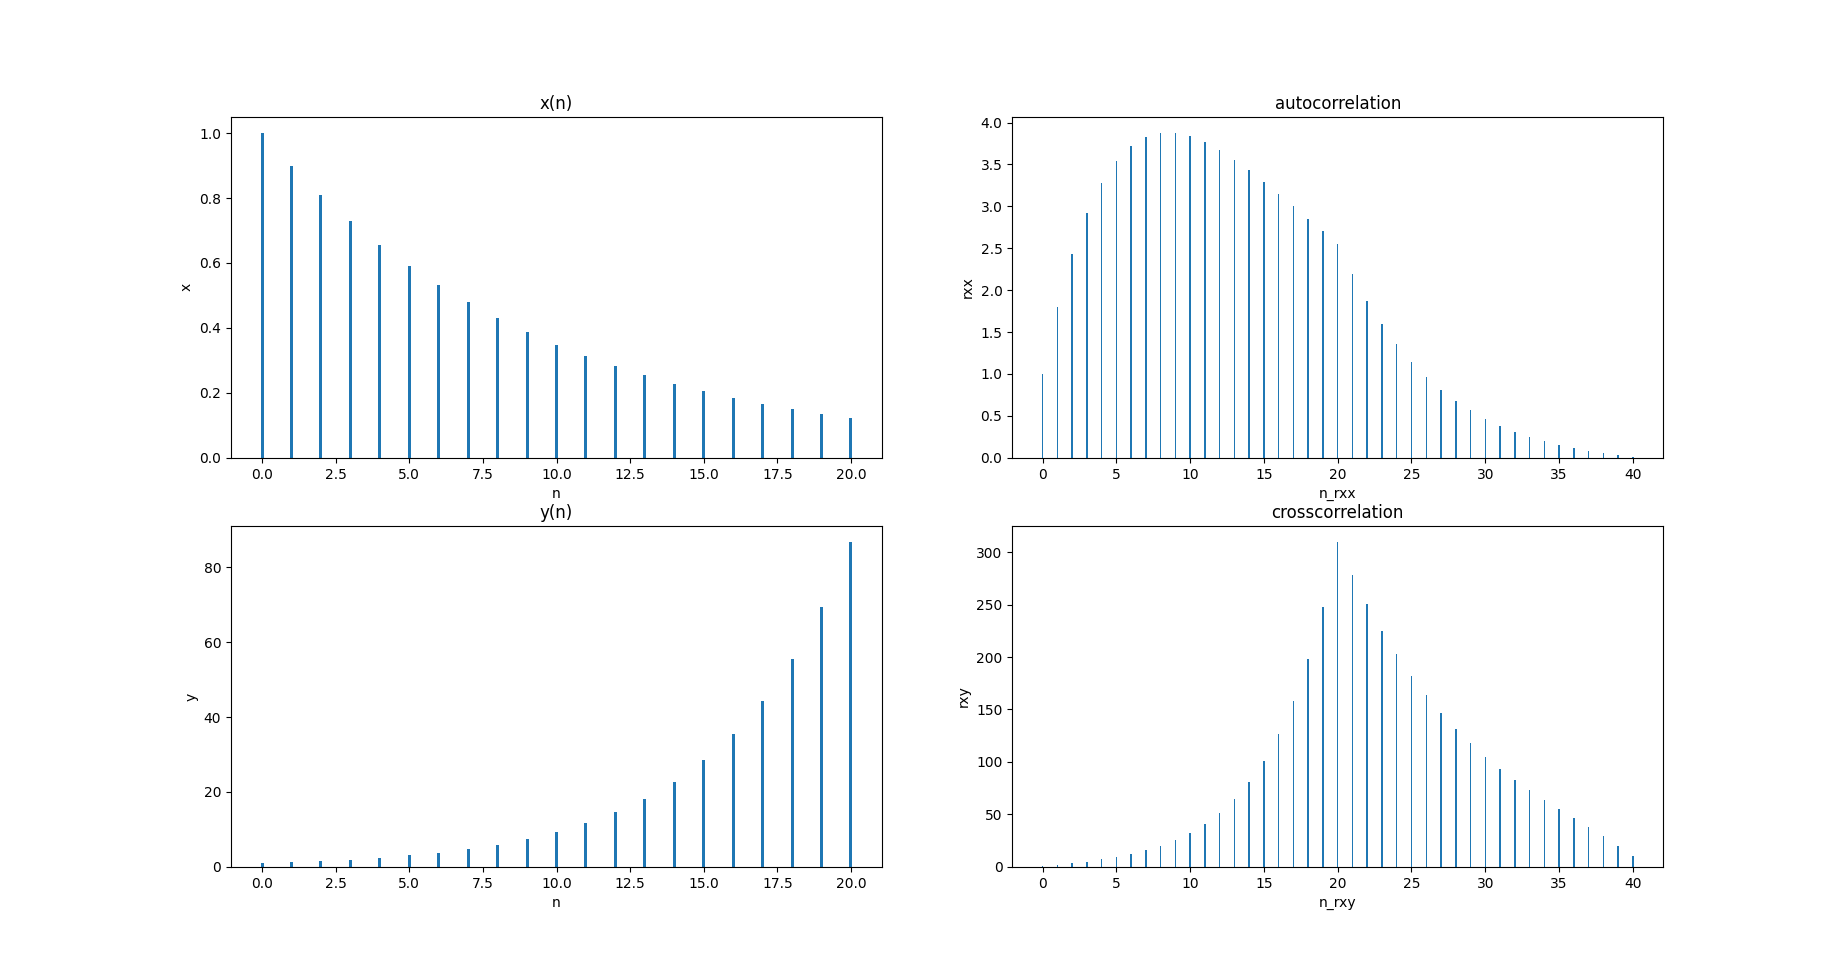
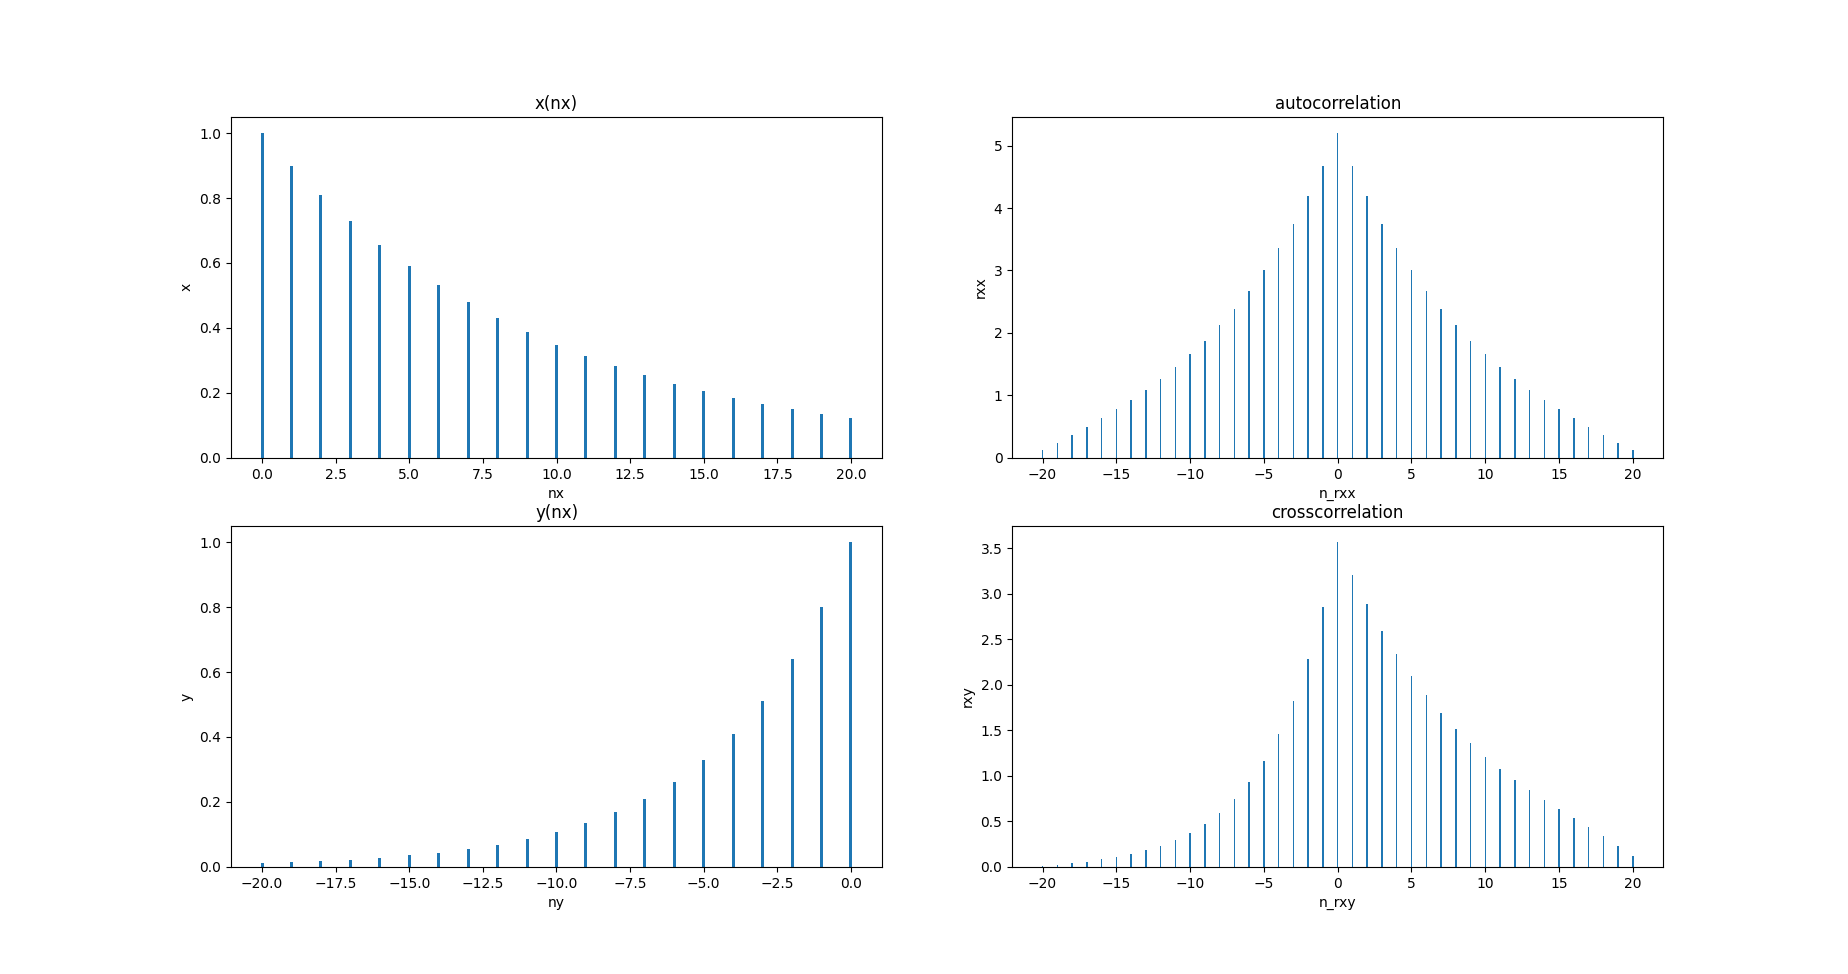
p2.9

diff --git a/p2.9.py b/p2.9.py
@@ -1,21 +1,23 @@
 import matplotlib.pyplot as plt
 import numpy as np
 from base.conv_m import *
+from base.sigfold import *
 
-n = np.arange(0,21)
-x = np.power(0.9, n)
+nx = np.arange(0,21)
+x = np.power(0.9, nx)
+x_flip, nx_flip = sigfold(x, nx)
 
-y = np.power(0.8, -1*n)
+y, ny = sigfold(np.power(0.8, nx), nx)
 
-rxx, n_rxx = conv_m(x, n, x, n)
-rxy, n_rxy = conv_m(x, n, y, n)
+rxx, n_rxx = conv_m(x, nx, x_flip, nx_flip)
+rxy, n_rxy = conv_m(x, nx, y, ny)
 
-# x, n
+# x, nx
 plt.subplot(2, 2, 1)    
-plt.bar(n, x, width = 0.1)
-plt.xlabel('n')
+plt.bar(nx, x, width = 0.1)
+plt.xlabel('nx')
 plt.ylabel('x')
-plt.title('x(n)')
+plt.title('x(nx)')
 
 # rxx, n_rxx
 plt.subplot(2, 2, 2)    
@@ -24,12 +26,12 @@ plt.xlabel('n_rxx')
 plt.ylabel('rxx')
 plt.title('autocorrelation')
 
-# y, n
+# y, ny
 plt.subplot(2, 2, 3)    
-plt.bar(n, y, width = 0.1)
-plt.xlabel('n')
+plt.bar(ny, y, width = 0.1)
+plt.xlabel('ny')
 plt.ylabel('y')
-plt.title('y(n)')
+plt.title('y(nx)')
 
 # rxy, n_rxy
 plt.subplot(2, 2, 4)    
